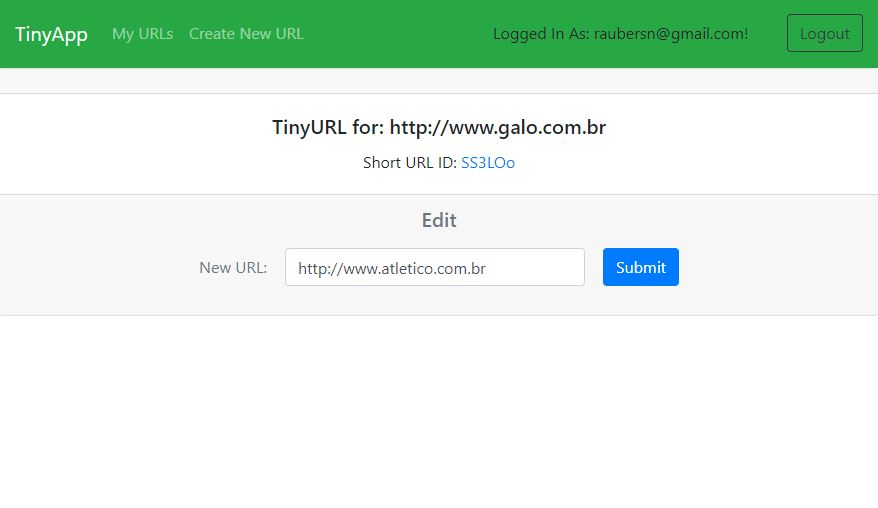
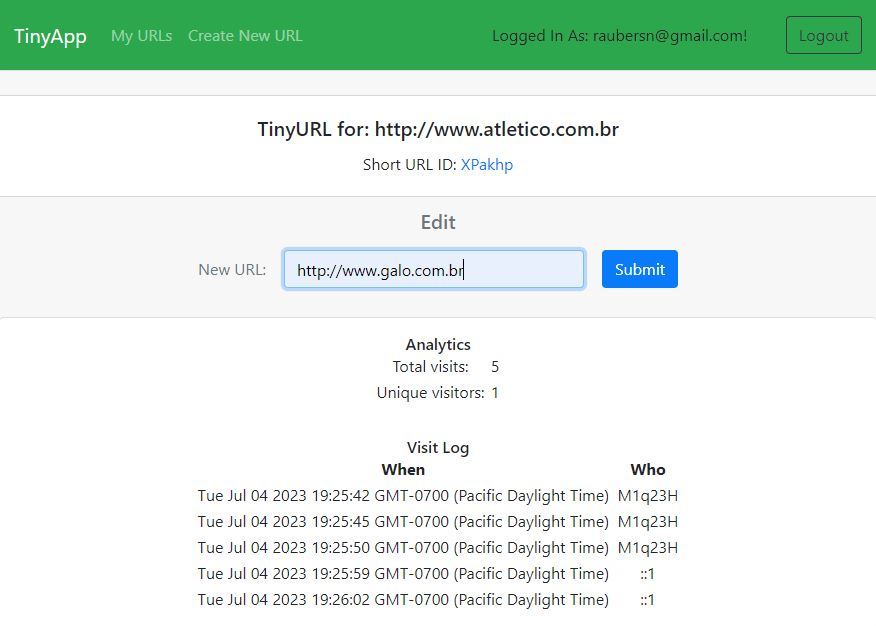
Extend your TinyURL app with analytics features

diff --git a/express_server.js b/express_server.js
@@ -91,6 +91,8 @@ app.post("/urls", (req, res) => {
     urlDatabase[tinyId] = {};
     urlDatabase[tinyId].longURL = req.body.longURL;
     urlDatabase[tinyId].userID = req.session.user_id;
+    urlDatabase[tinyId].log = [];
+    urlDatabase[tinyId].uniqueCounter = 0;
 
     res.redirect("/urls/" + tinyId);
   }
@@ -103,10 +105,9 @@ app.get("/urls/new", (req, res) => {
     res.redirect("/login");
   } else {
     const templateVars = {
-      user: users[req.session.user_id]
-      
+      user: users[req.session.user_id]      
     };
-    console.log(req.session.user_id, users[req.session.user_id]);
+    
     res.render("urls_new", templateVars);
   }
 });
@@ -126,7 +127,9 @@ app.get("/urls/:id", (req, res) => {
     const templateVars = {
       id: req.params.id,
       longURL: urlDatabase[req.params.id].longURL,
-      user: users[req.session.user_id]
+      user: users[req.session.user_id],
+      log: urlDatabase[req.params.id].log,
+      uniqueCounter: urlDatabase[req.params.id].uniqueCounter
     };
 
     res.render("urls_show", templateVars);
@@ -172,11 +175,23 @@ app.delete("/urls/:id", (req, res) => {
 //navigates to the long URL of a TinyURL
 app.get("/u/:id", (req, res) => {
   if (urlDatabase[req.params.id]) {
+    //tracks the visit to the TinyURL, recording the timestamp and visitor ID if it is a logged user, or the visitor's IP if it is anonimous
+    urlDatabase[req.params.id].log.push({timestamp: Date.now(), visitorID: req.session.user_id ? req.session.user_id : req.ip});
+
+    //checks if the user has visited this TinyURL before. If not, set a cookie for later verification and increments the counter
+    if (!req.session[req.params.id]) {
+      req.session[req.params.id] = true;
+      urlDatabase[req.params.id].uniqueCounter++;
+    }
+    
     res.redirect(urlDatabase[req.params.id].longURL);
   } else {
     //sends an error message to the user indicating the URL requested does not exist
     res.status(404).send(UNEXISTING_URL);
   }
+
+
+
 });
 
 //renders the login page

diff --git a/README.md b/README.md
@@ -22,6 +22,15 @@ TinyApp is a full stack web application built with Node and Express that allows 
 - Install all dependencies (using the `npm install` command).
 - Run the development web server using the `node express_server.js` command.
 
+## Analytics (Stretch)
+
+The editing page of a short URL will present the following metrics:
+- Number of total visit
+- Number os visits by unique users
+- Log of all the visits received, containing when and who made it
+  - If a logged user visited the URL, their ID will be listed
+  - If the user is unknow, their IP is listed instead
+
 ## RESTful API (Stretch)
 
 TinyApp implements a RESTful API following the routing conventions:
